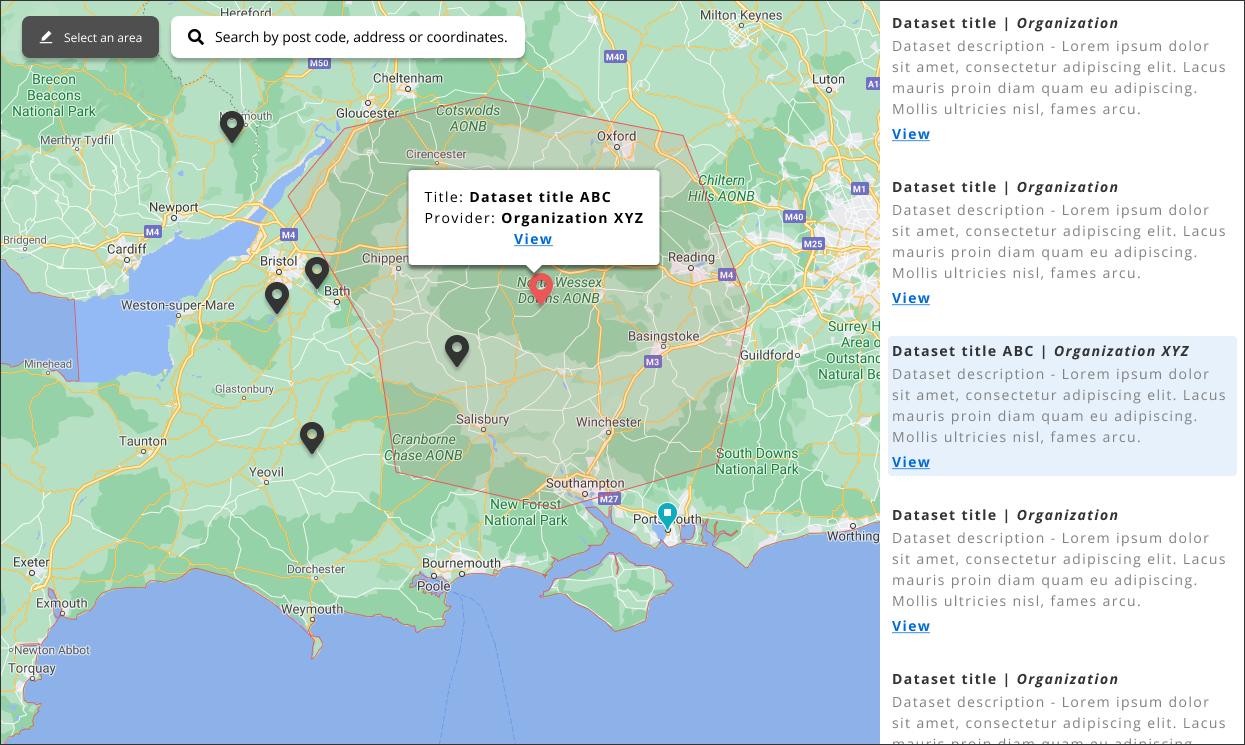
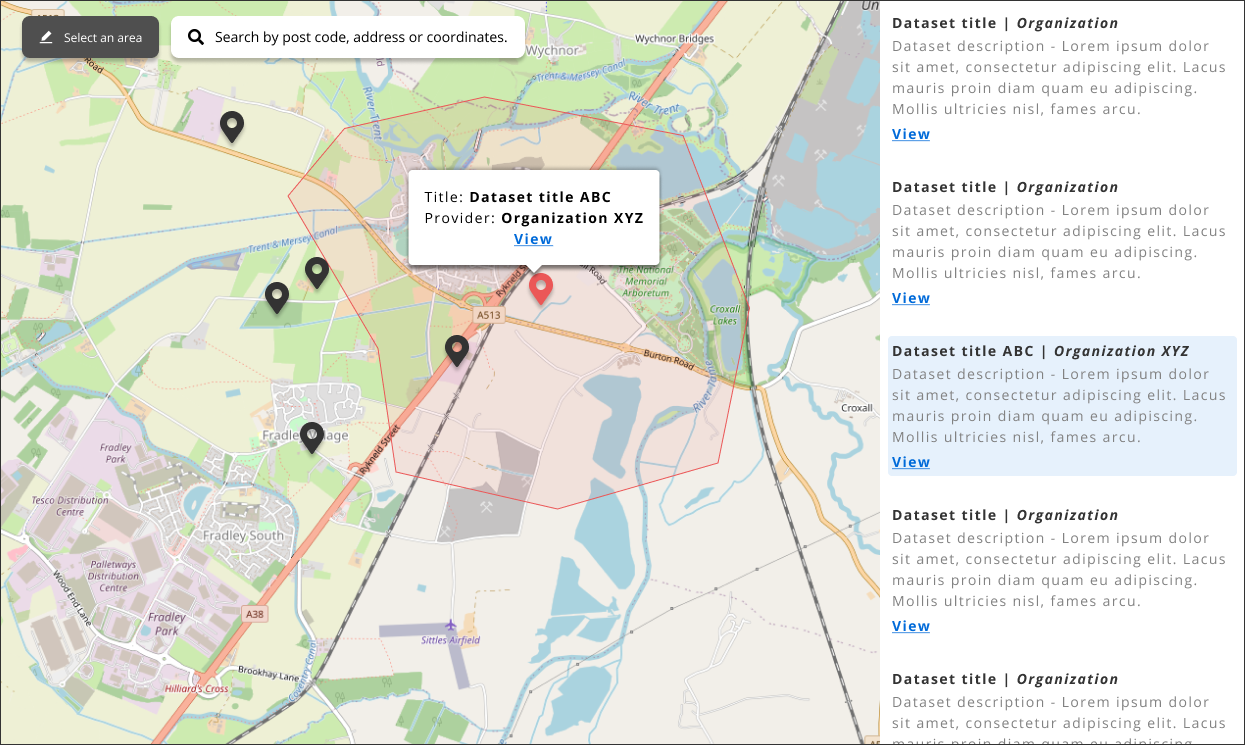
updated images and annotations on search and make sense pages

diff --git a/docs/main-content/steps/make-sense-of-search-results.md b/docs/main-content/steps/make-sense-of-search-results.md
@@ -28,7 +28,11 @@ Ensure users are presented with enough information to help them identify when to
 Help users identify if results are too many or too few, to indicate if a search requires additional filtering or refinement.
 
 <div class="image-container">
-<a href="/dd3-wireframes/_media/stage-3-results/2-number_of_results.png" target="_blank"><img src="/dd3-wireframes/_media/stage-3-results/2-number_of_results.png" style="max-width: 452px;"/></a>
+
+![Number of results on the search page in geospatial data portal](../../_media/stage-3-results/2-number_of_results.png)
+
+*Number of results on the search page*
+
 </div>
 
 ### 2. Faceted search (by parent / child categories)
@@ -37,7 +41,9 @@ Ensure users have access to glanceable information regarding the parent topic or
 
 <div class="image-container">
 
-<a href="/dd3-wireframes/_media/stage-3-results/3-faceted_search.png" target="_blank"><img src="/dd3-wireframes/_media/stage-3-results/3-faceted_search.png" data-no-zoom/></a>
+![Faced search example in geospatial data portal](../../_media/stage-3-results/3-faceted_search.png)
+
+*Faceted search*
 
 </div>
 
@@ -45,14 +51,22 @@ Ensure users have access to glanceable information regarding the parent topic or
 Ensure users have effective tools to allow them to quickly remove applied filters
 
 <div class="image-container">
-<a href="/dd3-wireframes/_media/stage-3-results/4-clear_filters.png" target="_blank"><img src="/dd3-wireframes/_media/stage-3-results/4-clear_filters.png" style="max-width: 300px;"/></a>
+
+![Search filters with remove icon ](../../_media/stage-3-results/4-clear_filters.png)
+
+*Search filters that can easily be removed*
+
 </div>
 
 ### 4. Sort by
 Ensure users have an effective way to change how results are sorted to help promote relevant results first
 
 <div class="image-container">
-<a href="/dd3-wireframes/_media/stage-3-results/5-sort_by.png" target="_blank"><img src="/dd3-wireframes/_media/stage-3-results/5-sort_by.png" style="max-width: 232px;" data-no-zoom/></a>
+
+![Dropdown for sorting search results](../../_media/stage-3-results/5-sort_by.png)
+
+*Dropdown for sorting search results*
+
 </div>
 
 ### 5. Apply filters
@@ -60,7 +74,11 @@ Ensure users have an effective way to change how results are sorted to help prom
 Ensure users can quickly and easily apply filters to remove results that are not relevant to their search query
 
 <div class="image-container">
-<a href="/dd3-wireframes/_media/stage-3-results/6-apply_filters.png" target="_blank"><img src="/dd3-wireframes/_media/stage-3-results/6-apply_filters.png" style="max-width: 304px;"/></a>
+
+![Search filter list on search results page](../../_media/stage-3-results/6-apply_filters.png)
+
+*Search filters on search results page*
+
 </div>
 
 ### 6. Geospatial filter
@@ -68,14 +86,23 @@ Ensure users can quickly and easily apply filters to remove results that are not
 Geospatial presentation of results by preference of area should be made available for the user to refine their search to a specific location / spatial region
 
 <div class="image-container">
-<a href="/dd3-wireframes/_media/stage-3-results/7b-presentation_of_results.png" target="_blank"><img src="/dd3-wireframes/_media/stage-3-results/7b-presentation_of_results.png" style="max-width: 299px;"/></a>
+
+![Geospatial filter on search results page](../../_media/stage-3-results/7b-presentation_of_results.png)
+
+*Geospatial filter on search results page. Map source: [OpenStreetMap](https://www.openstreetmap.org)*
+
 </div>
 
 ### 7. Results list
 Each result should show a title, description, related publisher information, publication date, last updated, key meta data and licence type. There may be additional mechanisms to help identify higher quality datasets, such as crowdsourced user feedback forms and displaying information to distinguish (../../main-content/steps/assess-data-quality) search results.
 
 <div class="image-container">
-<a href="/dd3-wireframes/_media/stage-3-results/7a-presentation_of_results.png" target="_blank"><img src="/dd3-wireframes/_media/stage-3-results/7a-presentation_of_results.png" data-no-zoom/></a>
+
+![Results list on search results page](../../_media/stage-3-results/7a-presentation_of_results.png)
+
+*Results list on search results page*
+
+
 </div>
 
 <!-- ### 8. Pagination - TO ADD -->

diff --git a/docs/main-content/steps/search-for-data.md b/docs/main-content/steps/search-for-data.md
@@ -16,9 +16,9 @@ Ensure users are able to search for data using keywords. As a primary function s
 
 <div class="image-container">
 
-![Simple search](../../_media/search-for-data/simple-search.png)
+![Search field in a geospatial data portal](../../_media/search-for-data/simple-search.png)
 
-*Search field*
+*Search field with sample search queries*
 
 </div>
 
@@ -40,9 +40,9 @@ ensuring it is clear to the user what is included in the search results and the 
 
 <div class="image-container">
 
-![Map View](../../_media/search-for-data/map-view.png)
+![Map search interface for geospatial data portal](../../_media/search-for-data/map-view.png)
 
-*Map search*
+*Spatial search. Map source: [OpenStreetMap](https://www.openstreetmap.org)*
 
 </div>
 
@@ -50,9 +50,9 @@ If it's possible to search for datasets on a map, the search results should be c
 
 <div class="image-container">
 
-![Map View](../../_media/search-for-data/map-and-list.png)
+![Search results on a map in a geospatial data portal](../../_media/search-for-data/map-and-list.png)
 
-*Search results in a list and map, highlighting a selected record in both*
+*Search results on a map with a list view on a side. Map source: [OpenStreetMap](https://www.openstreetmap.org)*
 
 </div>
 
@@ -60,7 +60,7 @@ Users often prefer to search for datasets using a map interface. When available,
 
 <div class="image-container">
 
-![Map View](../../_media/search-for-data/map-to-list.gif)
+![Animation showing  map and list view interaction on a geospatial data portal](../../_media/search-for-data/map-to-list.gif)
 
 *Switching between map and list view*
 
@@ -72,7 +72,7 @@ Include a sample query in the search bar as a suggestion for users of what they 
 
 <div class="image-container">
 
-![Simple search](../../_media/search-for-data/search-bar.png)
+![Search bar with sxample search criteria](../../_media/search-for-data/search-bar.png)
 
 *Example search criteria*
 
@@ -84,7 +84,7 @@ Show most recent or popular queries.
 
 <div class="image-container">
 
-![Search history](../../_media/search-for-data/search-history.png)
+![Search bar with search history](../../_media/search-for-data/search-history.png)
 
 *Search history in the search bar*
 
@@ -98,9 +98,9 @@ If there are data records that have a 'close' resemblance to search criteria ens
 
 <div class="image-container">
 
-![Search history](../../_media/search-for-data/no-results.png)
+![No search results page on geospatial data portal](../../_media/search-for-data/no-results.png)
 
-*Handling no results*
+*No results page with suggestions to improve the search*
 
 </div>
 
@@ -114,11 +114,17 @@ Ensure search queries are shown if entered to allow users to easily remember wha
 
 <div class="image-container">
 
-![Detailed search](../../_media/search-for-data/search-terms.png)
+![Search terms displayed on search results page in a geospatial data portal](../../_media/search-for-data/search-terms.png)
 
 *Search terms can be displayed on the results page, so that users don't have to remember what they searched for*
 
-![Detailed search](../../_media/search-for-data/search-terms-2.png)
+</div>
+
+<br>
+
+<div class="image-container">
+
+![Search terms in the search bar should not get cleared after search](../../_media/search-for-data/search-terms-2.png)
 
 *Search terms should not get cleared from the search bar after search to make it easier to alter search terms if needed*
 
